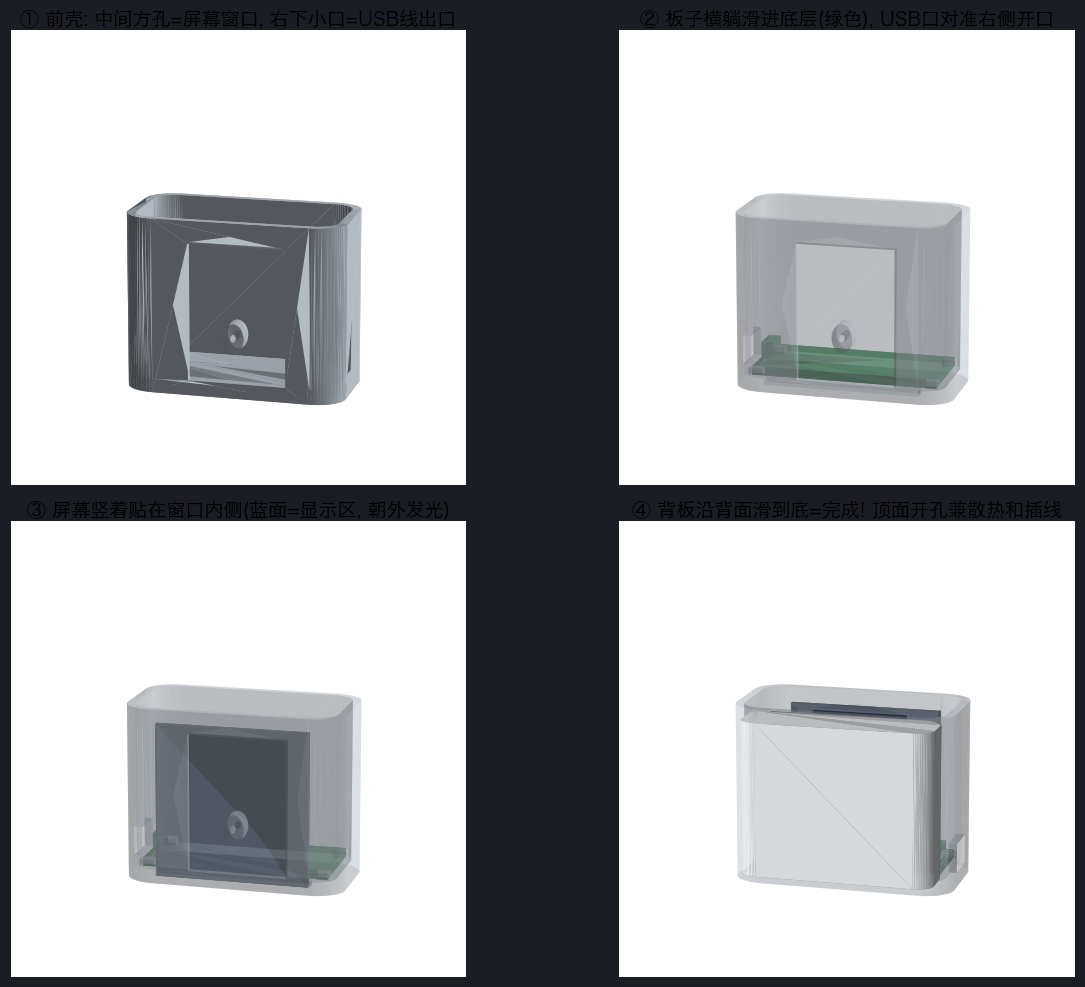
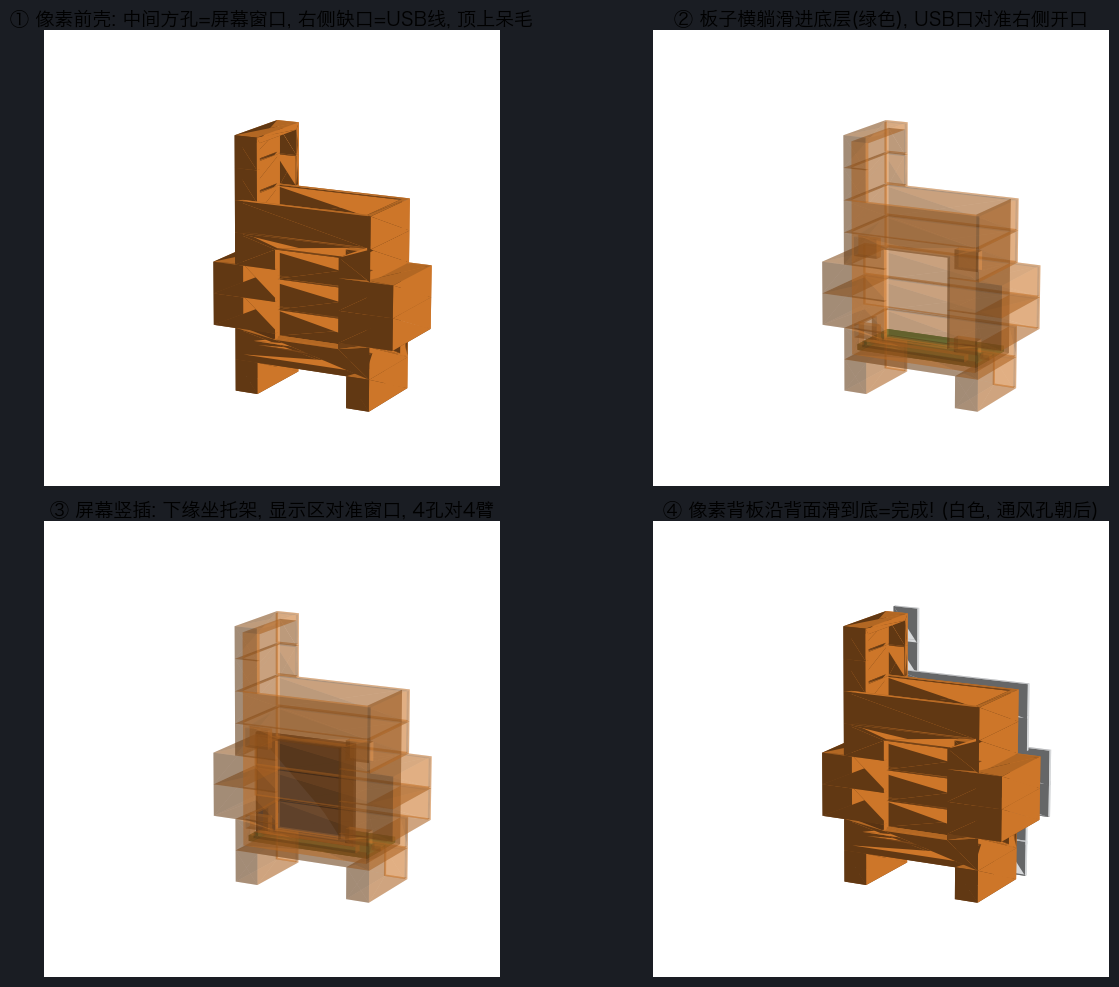
V0.8 外壳 V4: 像素风 Clawd 吉祥物造型
- 8x8 像素格剪影(格10mm): 双腿/身体/两侧钳臂/顶部呆毛, 80x80x38.8mm
- 屏幕横置嵌脸部窗口(28.2 只露显示区), 4 孔对 4 条侧壁托臂 M2 自攻
- 板子横卧底层热熔胶固定, USB 右壁出线; 像素背板带通风孔
- build_case.py 重写为像素网格生成器 + 装配步骤图

diff --git a/models/build_case.py b/models/build_case.py
@@ -1,142 +1,170 @@
 #!/usr/bin/env python3
-"""AgentPet 外壳 V3.1 —— 屏幕横置 + 螺丝孔精确定位版。
+"""AgentPet 外壳 V4 —— 像素风 Clawd 吉祥物造型(站立小方蟹)。
 
-依据屏幕官方尺寸图:
-- PCB 43.72(长)×31.52(宽), 厚2.0, 排针在长边一端(全长11.3含针)
-- 显示区 AA 27.72×27.72, 距非排针端 6.0/距两侧 2.14
-- 4×Ø2.0 安装孔, 距边 2.5 → 孔距 38.72 × 26.52
-布局(站立小方碑 50×38.8×36):
-- 前窗 28.2 方孔, 只露显示区(边缘压0.2)
-- 屏幕横置贴前壁内侧: 下边缘插进底板卡槽(定位), 上方2孔锁M2自攻(固定)
-- 板子横卧底层(热熔胶/双面胶粘底板), USB 朝右壁开口
-- 背板从顶部沿背面插入(通风缝), 顶面开放兼散热
+剪影: 8×8 像素格(格 10mm) → 80×80×38.8mm
+  z0-10 双腿 | z10-20 身体 | z20-40 两侧钳臂 | z40-60 身体 | z60-80 顶部呆毛
+内部(从背面像素大开口装配):
+  板子横卧底层(热熔胶粘底, USB 朝右壁开口)
+  屏幕横置: 下缘坐托架, 4 孔对准 4 条侧壁托臂, M2×6 自攻锁死
+  窗口 28.22mm 只露显示区(27.72), PCB 边缘全隐藏
+背板: 同剪影像素盖板(带 2 个像素通风孔), 背面嵌入
 """
 import numpy as np
 import trimesh
 
+CELL = 10.0
+D = 38.8
 wall = 2.4
-inner_w, inner_d = 58.0, 34.0
-floor = 2.4
-total_h = 36.0
-corner_r = 9.0
 
-# 屏幕(横置)
-spcb_l, spcb_h, spcb_t = 43.72, 31.52, 2.0     # 长(横)×高(竖)×厚
+# 像素剪影: 行自底向上(z), 每行 = 填充列号(0~7, x 自 -40 起)
+ROWS = [
+    {1, 6},                      # z 0-10   双腿
+    set(range(1, 7)),            # z 10-20  身体下段
+    set(range(0, 8)),            # z 20-30  钳臂
+    set(range(0, 8)),            # z 30-40  钳臂
+    set(range(1, 7)),            # z 40-50  身体
+    set(range(1, 7)),            # z 50-60  身体
+    {6},                         # z 60-70  呆毛
+    {6},                         # z 70-80  呆毛尖
+]
+NCOLS = 8
+TOTAL_H = len(ROWS) * CELL                  # 80
+X0 = -CELL * NCOLS / 2                      # -40
+
+# 内腔(顶部开放, 背面由像素开口盖板封闭)
+cav_x0, cav_x1 = -27.6, 27.6
+cav_y0, cav_y1 = -17.0, 17.0
+cav_z0 = CELL + floor_t if (floor_t := 2.4) else 12.4   # 12.4
+cav_z1 = TOTAL_H - 3.0                                   # 77
+
+# 屏幕(横置, 官方尺寸)
+spcb_l, spcb_h, spcb_t = 43.72, 31.52, 2.0
 view_w = 27.72
-win_size = view_w + 0.5                         # 28.22, 每边压显示区0.25
-win_cx = -2.0                                   # AA 中心(偏非排针端)
-pcb_cz = 1.2 + spcb_h / 2                       # 屏下缘沉入底板槽1.2 → 中心z 17.2
-win_cz = 1.2 + 2.14 + view_w / 2                # 18.26
-hole_dx = spcb_l / 2 - 2.5                      # ±19.36 (左右孔)
-hole_dz = spcb_h / 2 - 2.5                      # ±13.26 (上下孔)
-# 上方两孔锁螺丝(下方两孔由底板槽定位)
-post_z = pcb_cz + hole_dz                       # 30.46
-post_len = 6.0
+pcb_x0 = cav_x0 + (cav_x1 - cav_x0 - spcb_l) / 2        # 6.14
+pcb_x1 = pcb_x0 + spcb_l                                 # 49.86
+screen_z0 = 16.2                                         # 屏底(坐托架上)
+pcb_cz = screen_z0 + spcb_h / 2                          # 31.96
 
+# 显示区 AA 与窗口(AA 偏向非排针端: 端部6.0, 两侧2.14)
+aa_x0, aa_x1 = pcb_x0 + 6.0, pcb_x0 + 6.0 + view_w       # -10.14..17.58? 见下
+aa_x0 = pcb_x0 + 6.0                                     # 12.14
+aa_x1 = aa_x0 + view_w                                   # 39.86
+aa_z0, aa_z1 = screen_z0 + 2.14, screen_z0 + 2.14 + view_w  # 18.34..46.06
+win_size = view_w + 0.5                                  # 28.22
+win_cx = (aa_x0 + aa_x1) / 2 - 0.25                      # 25.75
+win_cz = (aa_z0 + aa_z1) / 2                             # 32.2
+win_z0 = win_cz - win_size / 2                           # 18.09
+
+# 螺丝孔位(横置后): 沿长度 ±19.36, 沿高度 ±13.26
+hole_xs = (pcb_x0 + 2.5, pcb_x1 - 2.5)                   # 8.64 / 47.36
+hole_zs = (pcb_cz - (spcb_h / 2 - 2.5), pcb_cz + (spcb_h / 2 - 2.5))  # 18.7 / 45.22
+
+# 板子
 board_l, board_d, board_t = 53.34, 27.94, 1.8
-board_cy = -0.8                                 # 板中心(背板与屏幕之间)
-
-usb_slot_w, usb_slot_h = 12.0, 6.0
-usb_cz = floor + board_t + 1.8                  # USB座中心高度
-
-ow, od = inner_w + 2 * wall, inner_d + 2 * wall
-SEG = 64
-
-
-def rounded_box(w, d, h, r, z0=0.0, cx=0.0, cy=0.0):
-    meshes = []
-    for sx in (-1, 1):
-        for sy in (-1, 1):
-            meshes.append(trimesh.creation.cylinder(
-                radius=r, height=h, sections=SEG,
-                transform=trimesh.transformations.translation_matrix(
-                    [cx + sx * (w / 2 - r), cy + sy * (d / 2 - r), z0 + h / 2])))
-    meshes.append(trimesh.creation.box(
-        extents=[max(w - 2 * r, 0.1), d, h],
-        transform=trimesh.transformations.translation_matrix([cx, cy, z0 + h / 2])))
-    meshes.append(trimesh.creation.box(
-        extents=[w, max(d - 2 * r, 0.1), h],
-        transform=trimesh.transformations.translation_matrix([cx, cy, z0 + h / 2])))
-    return trimesh.util.concatenate(meshes).convex_hull
+board_cx, board_cy = 0.0, 0.0
+board_z0 = cav_z0                                        # 12.4
+usb_cz = board_z0 + board_t + 1.8                        # 15.7
+usb_slot_w, usb_slot_h = 12.0, 7.0
 
 
 def box_at(w, d, h, x, y, z):
+    """中心(x,y), 底(z)的长方体。"""
     return trimesh.creation.box(
         extents=[w, d, h],
         transform=trimesh.transformations.translation_matrix([x, y, z + h / 2]))
 
 
-def cyl_y(x, y0, y1, r):
+def silhouette_prism(depth, inset=0.0, y_center=0.0):
+    """像素剪影沿 Y 挤出(逐行合并连续列)。inset<0 = 外扩。"""
+    parts = []
+    for ri, cols in enumerate(ROWS):
+        runs, start = [], None
+        for c in range(NCOLS + 1):
+            filled = c in cols
+            if filled and start is None:
+                start = c
+            if not filled and start is not None:
+                runs.append((start, c))
+                start = None
+        for c0, c1 in runs:
+            x0 = X0 + c0 * CELL - inset
+            x1 = X0 + c1 * CELL + inset
+            z0 = ri * CELL - inset
+            parts.append(box_at(x1 - x0, depth, CELL + 2 * inset,
+                                (x0 + x1) / 2, y_center, z0))
+    return trimesh.util.concatenate(parts)
+
+
+SEG = 48
+
+
+def cyl_y(x, y_center, z, r, length):
     return trimesh.creation.cylinder(
-        radius=r, height=abs(y1 - y0), sections=SEG,
-        transform=trimesh.transformations.rotation_matrix(np.pi / 2, [1, 0, 0],
-                                                          [x, 0, (y0 + y1) / 2]))
+        radius=r, height=length, sections=SEG,
+        transform=trimesh.transformations.rotation_matrix(
+            np.pi / 2, [1, 0, 0], [x, y_center, z]))
 
 
-def build_front():
-    outer = rounded_box(ow, od, total_h, corner_r)
-    cuts = []
-    # 内腔(顶部开放)
-    cuts.append(rounded_box(inner_w, inner_d, total_h - floor + 1,
-                            corner_r - wall, z0=floor))
-    # 屏窗: 打穿前壁, 中心 (win_cx, win_cz)
-    cuts.append(rounded_box(win_size, wall + 6, win_size, 3,
-                            z0=win_cz - win_size / 2, cx=win_cx, cy=od / 2 - 2))
-    # USB 侧口: 打穿右壁(+X), 板子USB座中心 (board_cy, usb_cz)
-    cuts.append(box_at(wall + 6, usb_slot_w, usb_slot_h,
-                       ow / 2 - 2, board_cy, usb_cz - usb_slot_h / 2))
-    # 底板屏幕卡槽: 屏下缘插入定位(深1.2, y 13.5~17.1 覆盖屏位)
-    cuts.append(box_at(spcb_l + 1, 3.6, 1.2, 0, 15.3, 1.2))
-    f = outer.difference(cuts)
+def build_shell():
+    outer = silhouette_prism(D)
+    cavity = box_at(cav_x1 - cav_x0, cav_y1 - cav_y0, cav_z1 - cav_z0 + 2,
+                    (cav_x0 + cav_x1) / 2, (cav_y0 + cav_y1) / 2, cav_z0 - 1)
+    back_cut = silhouette_prism(2.2, inset=-0.4, y_center=-D / 2 + 1.1)
+    shell = outer.difference([cavity, back_cut])
 
-    # 上方两孔的螺柱(自屏窗向后), 带 M2 底孔 Ø1.7
+    cuts = [
+        # 屏窗(打穿前壁)
+        box_at(win_size, wall + 6, win_size, win_cx, D / 2 - 2, win_z0),
+        # USB 口(打穿右壁)
+        box_at(wall + 14, usb_slot_w, usb_slot_h,
+               cav_x1 + wall / 2 + 5, board_cy, usb_cz - usb_slot_h / 2),
+    ]
+    shell = shell.difference(cuts)
+
+    # 4 条屏幕托臂: 从左右内壁伸到孔位, 前:
+    #   y 9.8~13.8 (前缘抵住屏幕背面), M2 底孔 Ø1.7 对准孔位
+    for hx in hole_xs:
+        for hz, th in ((hole_zs[1], 6.0), (hole_zs[0], 4.4)):
+            side = 1 if hx > 0 else -1
+            arm_len = (cav_x1 - abs(hx)) + 2.0          # 从壁到孔位再过 2mm
+            arm_cx = side * (cav_x1 - arm_len / 2)
+            shell = shell.union(box_at(arm_len, 4.0, th, arm_cx, D / 2 - wall - 4.0, hz - th / 2))
+            shell = shell.difference(cyl_y(abs(hx), D / 2 - wall - 5.0, hz, 0.85, 8.0))
+
+    # 屏幕托架(前壁悬伸, 托住屏幕下缘)
+    shell = shell.union(box_at(spcb_l + 2, 4.0, 2.0,
+                               (pcb_x0 + pcb_x1) / 2, D / 2 - wall - 2.0, screen_z0 - 2.0))
+
+    # 板子限位凸台
     for sx in (-1, 1):
-        post = cyl_y(sx * hole_dx, inner_d / 2 - wall, inner_d / 2 - wall - post_len, 3.0)
-        pilot = cyl_y(sx * hole_dx, inner_d / 2 - wall - post_len - 0.5,
-                      inner_d / 2 - wall + 0.5, 0.85)
-        f = f.union(post).difference(pilot)
-
-    # 板子限位小凸台(1.5mm 高, 前后各二, 兼作胶粘定位)
-    for sx in (-1, 1):
-        for sy in (-1, 1):
-            f = f.union(box_at(4, 3, 1.5, sx * 25.5, board_cy + sy * 13.2, floor))
-    return f
+        shell = shell.union(box_at(4, 3, 1.5, board_cx + sx * 25.0, board_cy, cav_z0))
+    return shell
 
 
 def build_back():
-    """插板: 厚1.6, 从顶部沿背面滑入, 三条竖通风缝。"""
-    plate_d = 1.6
-    h = total_h - floor - 2.0
-    plate = rounded_box(inner_w - 3.0, plate_d, h, 5.0,
-                        z0=floor, cy=-(inner_d / 2 - plate_d / 2 - 0.1))
-    slots = []
-    for x in (-15, 0, 15):
-        slots.append(box_at(2.0, plate_d + 2, 18, x, 0, floor + 6))
-    plate = plate.difference(slots)
-    return plate
+    plate = silhouette_prism(1.7, inset=0.5, y_center=-D / 2 + 0.85)
+    vents = [
+        box_at(7, 3.4, 7, -CELL * 1.5, 0, 24),
+        box_at(7, 3.4, 7, CELL * 1.5, 0, 24),
+    ]
+    return plate.difference(vents)
 
 
 def simple_board():
-    pcb = box_at(board_l, board_d, board_t, 0, board_cy, floor)
-    usb = box_at(3.5, 9, 3.5, board_l / 2 - 2.2, board_cy, floor + board_t)
-    usb.visual.face_colors = [40, 40, 40, 255]
-    return [pcb, usb]
+    return [box_at(board_l, board_d, board_t, board_cx, board_cy, board_z0)]
 
 
 def simple_screen():
-    """横置屏: PCB 竖板(长边水平) + 显示区亮面板。"""
-    pcb_z0 = floor - 1.2                       # 下缘沉入槽 1.2
-    pcb = box_at(spcb_l, spcb_t, spcb_h, 0, inner_d / 2 - spcb_t / 2 - 0.1, pcb_z0)
-    disp = box_at(view_w, 0.4, view_w,
-                  win_cx, inner_d / 2 - spcb_t / 2 - 0.1 + spcb_t / 2 + 0.3,
-                  win_cz - view_w / 2)
+    pcb = box_at(spcb_l, spcb_t, spcb_h,
+                 (pcb_x0 + pcb_x1) / 2, D / 2 - wall - spcb_t / 2 - 0.1, screen_z0)
+    disp = box_at(view_w, 0.4, view_w, win_cx, D / 2 - wall - 0.2, win_cz - view_w / 2)
     pcb.visual.face_colors = [25, 30, 40, 255]
     disp.visual.face_colors = [70, 160, 230, 255]
     return [pcb, disp]
 
 
 def main():
-    front, back = build_front(), build_back()
+    front, back = build_shell(), build_back()
     front.export("agentpet_case_front.stl")
     back.export("agentpet_case_back.stl")
     for name, m in (("front", front), ("back", back)):

diff --git a/models/render_assembly.py b/models/render_assembly.py
@@ -1,5 +1,5 @@
 #!/usr/bin/env python3
-"""装配步骤可视化 V3.1：横置屏 + 螺丝定位。"""
+"""装配步骤可视化（像素外壳 V4）：4 步 = 空壳 → 装板 → 贴屏 → 插背板。"""
 import trimesh, numpy as np
 import matplotlib
 matplotlib.use("Agg")
@@ -10,7 +10,7 @@ plt.rcParams["font.sans-serif"] = ["Hiragino Sans GB"]
 
 import build_case as B
 
-front = B.build_front()
+front = B.build_shell()
 back = B.build_back()
 front.export("agentpet_case_front.stl")
 back.export("agentpet_case_back.stl")
@@ -18,45 +18,41 @@ back.export("agentpet_case_back.stl")
 board_meshes = trimesh.util.concatenate(B.simple_board())
 screen_meshes = trimesh.util.concatenate(B.simple_screen())
 
-ELEV = 14
-CASE_ALPHA = 0.30   # 半透明: 能看见内部
+ELEV, AZIM = 14, 118
 
 
-def render(ax, items, title, azim):
+def render(ax, items, title, azim=AZIM, alpha_case=1.0):
     for m, c, a in items:
         ax.plot_trisurf(m.vertices[:, 0], m.vertices[:, 1], m.vertices[:, 2],
                         triangles=m.faces, color=c, edgecolor="none",
                         alpha=a, shade=True)
     ax.view_init(elev=ELEV, azim=azim)
-    ax.set_box_aspect((1, 0.65, 0.85))
+    ax.set_box_aspect((1.3, 0.5, 1))
     ax.set_title(title, fontsize=13, pad=0)
     ax.axis("off")
-    ax.set_xlim(-45, 45); ax.set_ylim(-35, 35); ax.set_zlim(0, 55)
+    ax.set_xlim(-52, 92); ax.set_ylim(-30, 30); ax.set_zlim(0, 84)
 
 
 fig = plt.figure(figsize=(13, 9.5), dpi=105)
 
-# ① 空前壳(不透明, 正面看屏窗)
 render(fig.add_subplot(2, 2, 1, projection="3d"),
-       [(front, "#C9D2DC", 1.0)],
-       "① 前壳: 中间方孔=屏幕窗口, 右下小口=USB线出口", azim=105)
+       [(front, "#E8862E", 1.0)],
+       "① 像素前壳: 中间方孔=屏幕窗口, 右侧缺口=USB线, 顶上呆毛")
 
-# ② 半透明: 板子横躺进底层
 render(fig.add_subplot(2, 2, 2, projection="3d"),
-       [(front, "#C9D2DC", CASE_ALPHA), (board_meshes, "#3E9E5A", 1.0)],
-       "② 板子横躺滑进底层(绿色), USB口对准右侧开口", azim=105)
+       [(front, "#E8862E", 0.35), (board_meshes, "#3E9E5A", 1.0)],
+       "② 板子横躺滑进底层(绿色), USB口对准右侧开口")
 
-# ③ 屏幕竖贴窗口内侧
 render(fig.add_subplot(2, 2, 3, projection="3d"),
-       [(front, "#C9D2DC", CASE_ALPHA), (board_meshes, "#3E9E5A", 1.0),
+       [(front, "#E8862E", 0.35), (board_meshes, "#3E9E5A", 1.0),
         (screen_meshes, "#2A3548", 1.0)],
-       "③ 屏幕竖着贴在窗口内侧(蓝面=显示区, 朝外发光)", azim=105)
+       "③ 屏幕竖插: 下缘坐托架, 显示区对准窗口, 4孔对4臂")
 
-# ④ 背板插入(背面视角)
+back_shift = back.copy()
+back_shift.apply_translation([0, -10, 0])
 render(fig.add_subplot(2, 2, 4, projection="3d"),
-       [(front, "#C9D2DC", CASE_ALPHA), (back, "#F2F4F7", 1.0),
-        (board_meshes, "#3E9E5A", 1.0), (screen_meshes, "#2A3548", 1.0)],
-       "④ 背板沿背面滑到底=完成! 顶面开孔兼散热和插线", azim=-75)
+       [(front, "#E8862E", 1.0), (back_shift, "#F2F4F7", 1.0)],
+       "④ 像素背板沿背面滑到底=完成! (白色, 通风孔朝后)")
 
 plt.tight_layout()
 plt.savefig("assembly_steps.png", bbox_inches="tight", facecolor="#1a1d23")
